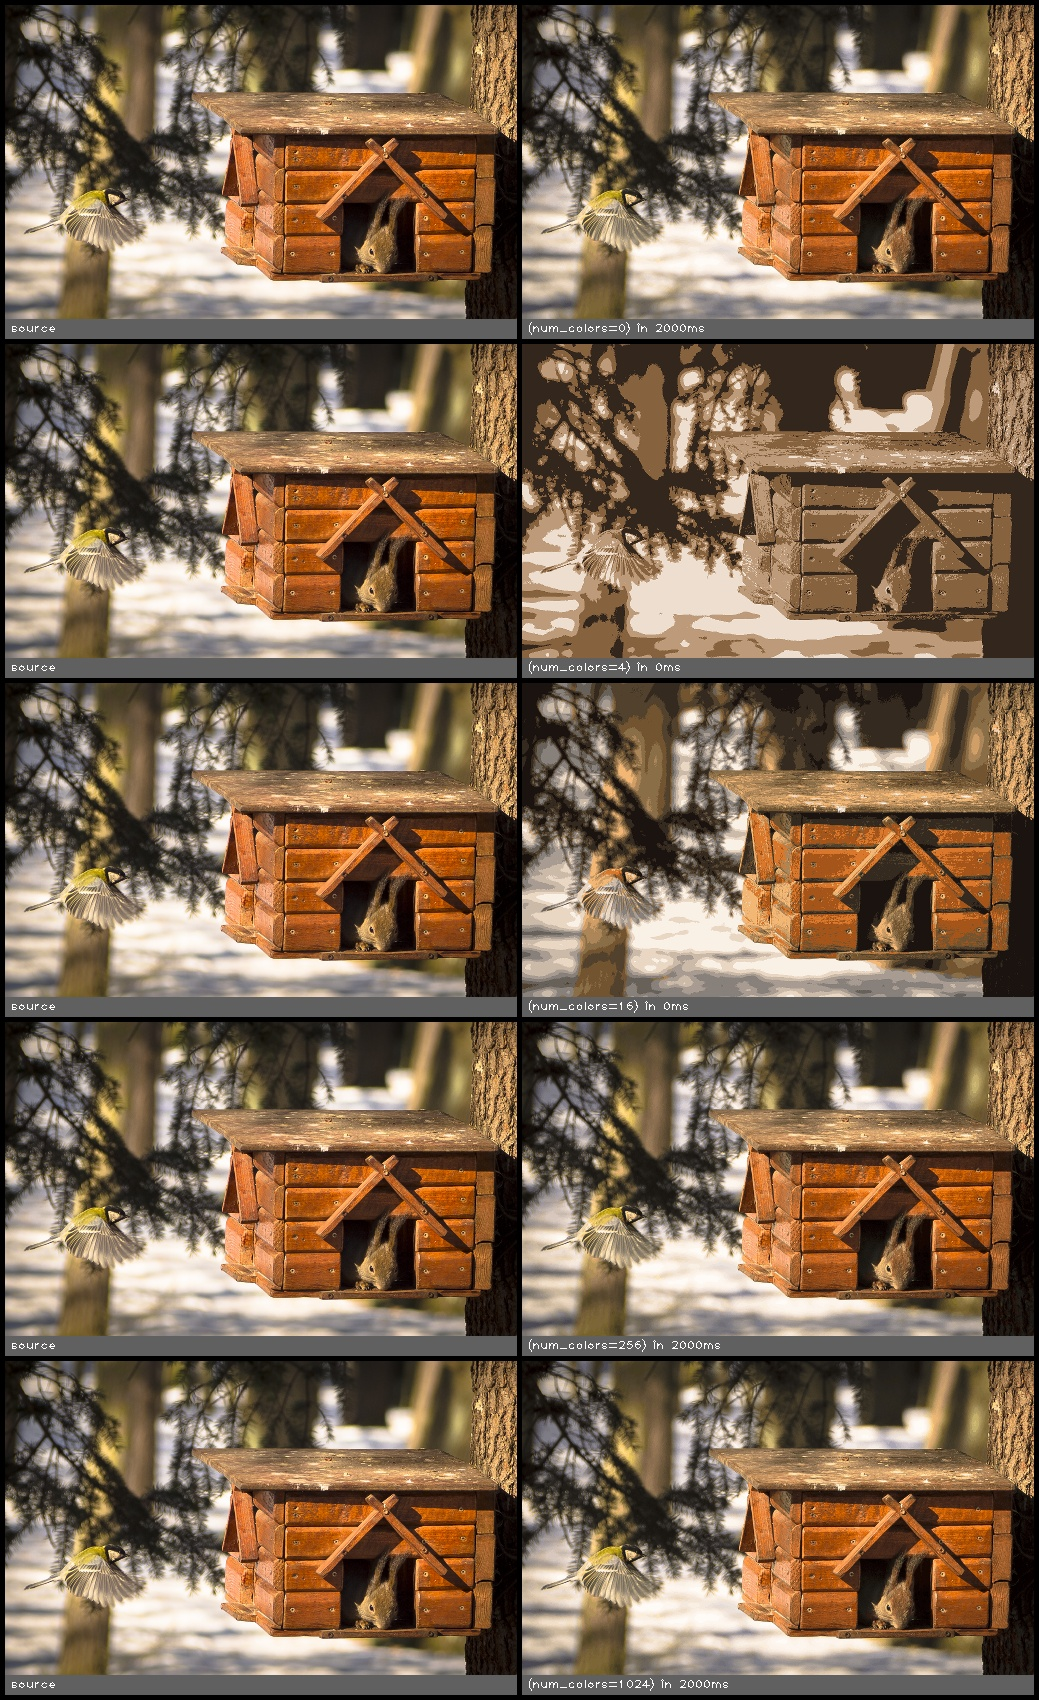
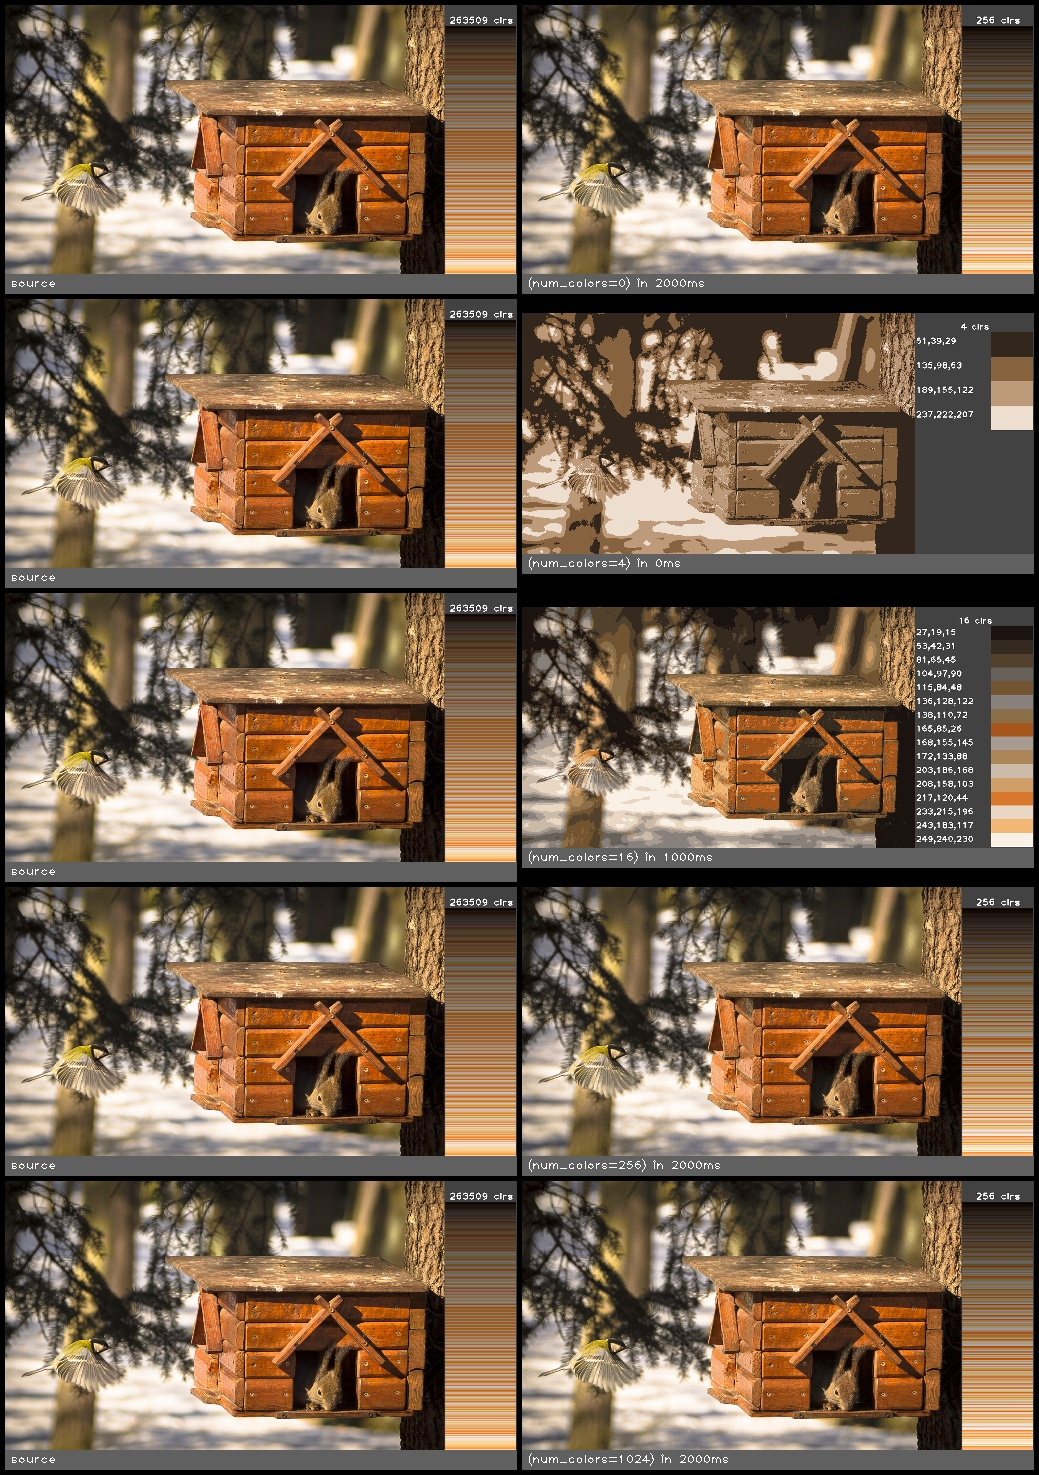
Add palette visualization to colour reduction algorithm images

diff --git a/docs/MakeDocImages.py b/docs/MakeDocImages.py
@@ -110,33 +110,47 @@ SCALED_BINARY_FUNCTIONS = [
 ]
 
 # parameterized functions
-PARAM1_FUNCTIONS = [
-    ( 'sepia_yiq', ( 'int', 'offset', [-20, -10, 0, 10, 20])),
-    ( 'kuwahara', ( 'int', 'kernel_size', [3, 5, 7, 9])),
-    ( 'gamma_correct', ( 'float', 'gamma', [0.5, 1.0, 1.5, 2.0])),
-    ( 'denoise', ( 'float', 'strength', [1, 3, 6, 9])),
-    ( 'auto_level_histogram_clip', ( 'float', 'clip_percent', [0.0, 1.0, 2.0, 4.0, 8.0])),
-    ( 'color_reduce_libimagequant', ( 'int', 'num_colors', [0, 4, 16, 256, 1024])),
-    ( 'color_reduce_median_cut', ( 'int', 'num_colors', [8, 16, 32, 64, 128, 256])),
-    ( 'color_reduce_im_quantize', ( 'int', 'num_colors', [8, 16, 32, 64, 128, 256])),
-    ( 'gaussian_blur', ( 'int', 'kernel_size', [3, 5, 7, 9])),
-    ( 'remove_intensity', ( 'int', 'black-cutoff', [1, 4, 8, 16])),
-    ( 'edge_canny', ( 'int', 'kernel_size', [3, 5, 7])),
-    ( 'adaptive_edge_laplacian', ( 'int', 'edge_percent', [5, 10, 15, 20])),
-    ( 'edge_laplacian', ( 'int', 'kernel_size', [1, 3, 5, 7, 9])),
-    ( 'edge_sobel', ( 'int', 'kernel_size', [1, 3, 5, 7])),
-]
-
-PARAM2_FUNCTIONS = [
-    ('simplify_colors', [
-        ( 'float', 'merge_distance', [0.2, 0.4, 0.8, 1.6, 3.2]),
-        ( 'float', 'min_coverage', [0.1, 0.2, 0.4, 0.8, 1.6])
-    ]),
-
-    ( 'color_reduce_im_mean_shift', [
-        ( 'int', 'kernel_size', [3, 5, 7, 9]),
-        ( 'float', 'color_distance', [0.1, 0.2, 0.4, 0.8, 1.0])
-    ]),
+PARAM_FUNCTIONS = [
+    { 
+        'function':( 'color_reduce_libimagequant', [
+            ( 'int', 'num_colors', [0, 4, 16, 256, 1024])
+            ]),
+        'visualize_palette': True
+    },
+    { 
+        'function':('simplify_colors', [
+            ( 'float', 'merge_distance', [0.2, 0.4, 0.8, 1.6, 3.2]),
+            ( 'float', 'min_coverage', [0.1, 0.2, 0.4, 0.8, 1.6])
+            ]),
+        'image': 'linux-logo.jpg',
+        'visualize_palette': True
+    },
+    { 'function': ('sepia_yiq', [( 'int', 'offset', [-20, -10, 0, 10, 20]) ]) },
+    { 'function':( 'kuwahara', [( 'int', 'kernel_size', [3, 5, 7, 9])])    },
+    { 'function':( 'gamma_correct', [( 'float', 'gamma', [0.5, 1.0, 1.5, 2.0])]) },
+    { 'function':( 'denoise', [( 'float', 'strength', [1, 3, 6, 9])]) },
+    { 'function':( 'auto_level_histogram_clip', [( 'float', 'clip_percent', [0.0, 1.0, 2.0, 4.0, 8.0])]) },
+    { 
+        'function':( 'color_reduce_median_cut', [( 'int', 'num_colors', [8, 16, 32, 64, 128, 256])]),
+        'visualize_palette': True
+    },
+    { 
+        'function':( 'color_reduce_im_quantize', [( 'int', 'num_colors', [8, 16, 32, 64, 128, 256])]),
+        'visualize_palette': True
+    },
+    { 'function':( 'gaussian_blur', [( 'int', 'kernel_size', [3, 5, 7, 9])])    },
+    { 'function':( 'remove_intensity', [( 'int', 'black-cutoff', [1, 4, 8, 16])])    },
+    { 'function':( 'edge_canny', [( 'int', 'kernel_size', [3, 5, 7])]) },
+    { 'function':( 'adaptive_edge_laplacian', [( 'int', 'edge_percent', [5, 10, 15, 20])]) },
+    { 'function':( 'edge_laplacian', [( 'int', 'kernel_size', [1, 3, 5, 7, 9])]) },
+    { 'function':( 'edge_sobel', [( 'int', 'kernel_size', [1, 3, 5, 7])])    },
+    {
+        'function':('color_reduce_im_mean_shift', [
+            ( 'int', 'kernel_size', [3, 5, 7, 9]),
+            ( 'float', 'color_distance', [0.1, 0.2, 0.4, 0.8, 1.0])
+            ]),
+        'visualize_palette': True
+    }
 ]
 
 
@@ -207,27 +221,26 @@ class MakeDocImages(object):
         """ Constructor """
 
     def run(self):
-        self._unary_funcs()
-        self._param2_funcs()
-        self._scaled_binary_funcs()
-        self._param1_funcs()
-        self._binary_funcs()
+        self._unary_funcs(UNARY_FUNCTIONS)
+        self._param_funcs(PARAM_FUNCTIONS)
+        self._scaled_binary_funcs(SCALED_BINARY_FUNCTIONS)
+        self._binary_funcs(BINARY_FUNCTIONS)
 
         # update function docs
         args =[DRIVER_PATH, '--sphinx=' + FUNCTION_DOC_DIR]
         print(' '.join(args))
         subprocess.call(args)
 
-    def _unary_funcs(self):
-        for func in UNARY_FUNCTIONS:
+    def _unary_funcs(self, funcs):
+        for func in funcs:
             script = '''
                     call experiment_add_image(name="source", src=__src__);
                     call %s(src=__src__, dst=__dst__);
                     ''' % (func)
             self._execute_script(func, script, 'nature.png')
 
-    def _binary_funcs(self):
-        for func in BINARY_FUNCTIONS:
+    def _binary_funcs(self, funcs):
+        for func in funcs:
             script = '''
                     input image src2;
                     call load_image(path="%s", dst=src2);
@@ -237,8 +250,8 @@ class MakeDocImages(object):
                     ''' % (os.path.join(IMAGE_DIR, 'mask1.png'), func)
             self._execute_script(func, script, 'nature.png')
 
-    def _scaled_binary_funcs(self):
-        for func in SCALED_BINARY_FUNCTIONS:
+    def _scaled_binary_funcs(self, funcs):
+        for func in funcs:
             script = '''
                     input float scale;
                     input image src2;
@@ -250,31 +263,43 @@ class MakeDocImages(object):
             arg = ('float', 'scale', [0.0, 0.1, 0.2, 0.4, 0.8, 1.0])
             self._execute_script(func, script, 'nature.png', arg)
 
-    def _param1_funcs(self):
-        for func in PARAM1_FUNCTIONS:
-            f = func[0]
-            t = func[1][0]
-            a = func[1][1]
-            script = '''
-                    input %s %s = 0;
-                    call experiment_add_image(name="source", src=__src__);
-                    call %s(src=__src__, dst=__dst__, %s=%s);
-                    ''' % (t, a, f, a, a)
-            self._execute_script(f, script, 'nature.png', func[1])
+    def _param_funcs(self, funcs):
+        for dfunc in funcs:
+            func = dfunc['function']
+            image = dfunc['image'] if 'image' in dfunc else 'nature.png'
+            vpalette = 'visualize_palette' in dfunc and dfunc['visualize_palette']
+            fname = func[0]
+            params = func[1]
+            input_decls = ''
+            args = ''
+            first = True
+            for param in params:
+                type = param[0]
+                pname = param[1]
+                input_decls += 'input %s %s = 0;\n' % (type, pname)
+                if not first:
+                    args += ', '
+                args += '%s=%s' % (pname, pname)
+                first = False
 
-    def _param2_funcs(self):
-        for func in PARAM2_FUNCTIONS:
-            f = func[0]
-            t0 = func[1][0][0]
-            a0 = func[1][0][1]
-            t1 = func[1][1][0]
-            a1 = func[1][1][1]
-            script = '''
-                    input %s %s = 0;
-                    input %s %s = 0;
-                    call %s(src=__src__, dst=__dst__, %s=%s, %s=%s);
-                    ''' % (t0, a0, t1, a1, f, a0, a0, a1, a1)
-            self._execute_script(f, script, 'nature.png', func[1][0], func[1][1])
+            script = ''
+            if len(params) == 1:
+                if vpalette:
+                    script += '''
+                        temp    image tsrc;
+                        call copy(src=__src__, dst=tsrc);
+                        call visualize_palette(src=tsrc, dst=tsrc);
+                        call experiment_add_image(name="source", src=tsrc);
+                    '''
+                else:
+                    script += 'call experiment_add_image(name="source", src=__src__);'
+            script += '''
+                    %s
+                    call %s(src=__src__, dst=__dst__, %s);
+                    ''' % (input_decls, fname, args)
+            if vpalette:
+                script += 'call visualize_palette(src=__dst__, dst=__dst__);'
+            self._execute_script(fname, script, image, *(func[1]))  
 
     def _execute_script(self, func, script, source_image,  *args):
         temp_dir = tempfile.mkdtemp(prefix='fx_')
@@ -300,7 +325,9 @@ class MakeDocImages(object):
 
     def _execute(self, script_path, image_path, temp_dir, *args):
         cmd = [DRIVER_PATH, '--experiment', '--output_dir=' + temp_dir]
+        print(args)
         for arg in args:
+            print(arg)
             sarg = arg[1] + '=' + ','.join([str(e) for e in arg[2]])
             cmd.append(sarg)
         cmd.append(script_path)

diff --git a/docs/pages/functions/simplify_colors.rst b/docs/pages/functions/simplify_colors.rst
@@ -1,7 +1,7 @@
 simplify_colors(src, merge_distance, min_coverage)
 ==================================================
 
-Simply the colors used in the image
+Simply the colors used in the image. This is not useful for general color reduction but can be useful when using logo type images that have antialiasing that needs to be removed to leave only the most dominant colors in the image
 
 **Inputs**
 
